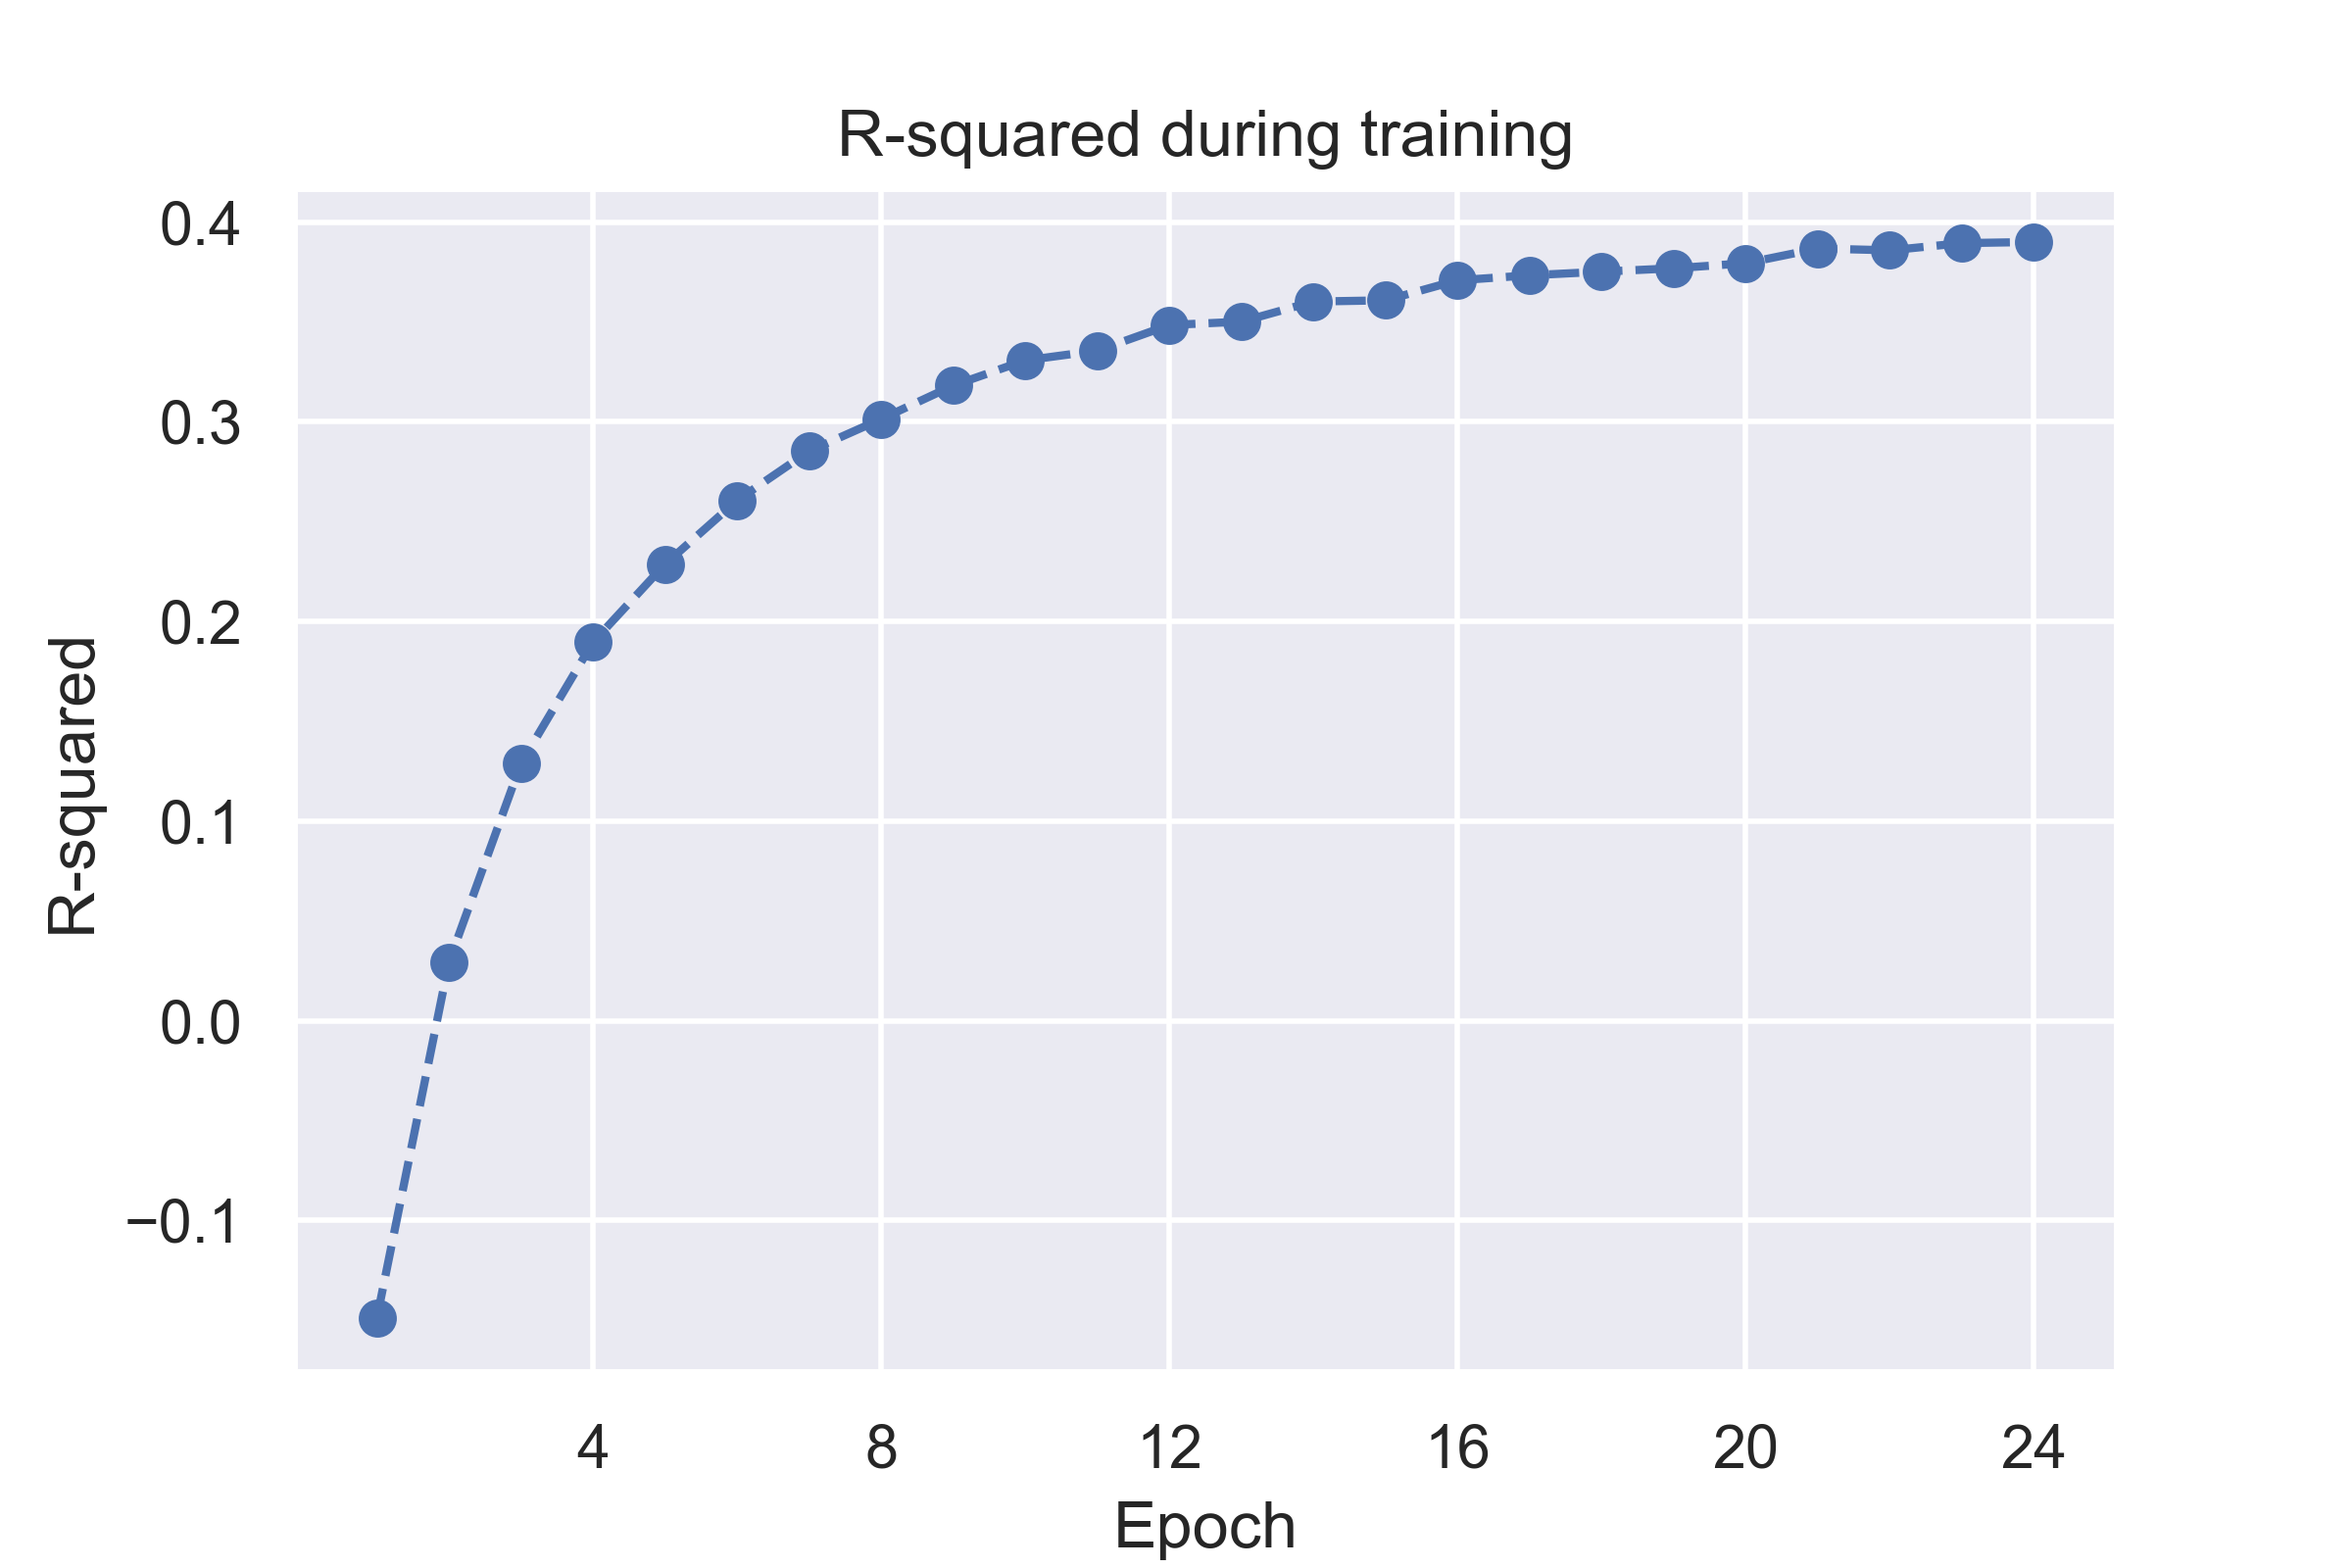
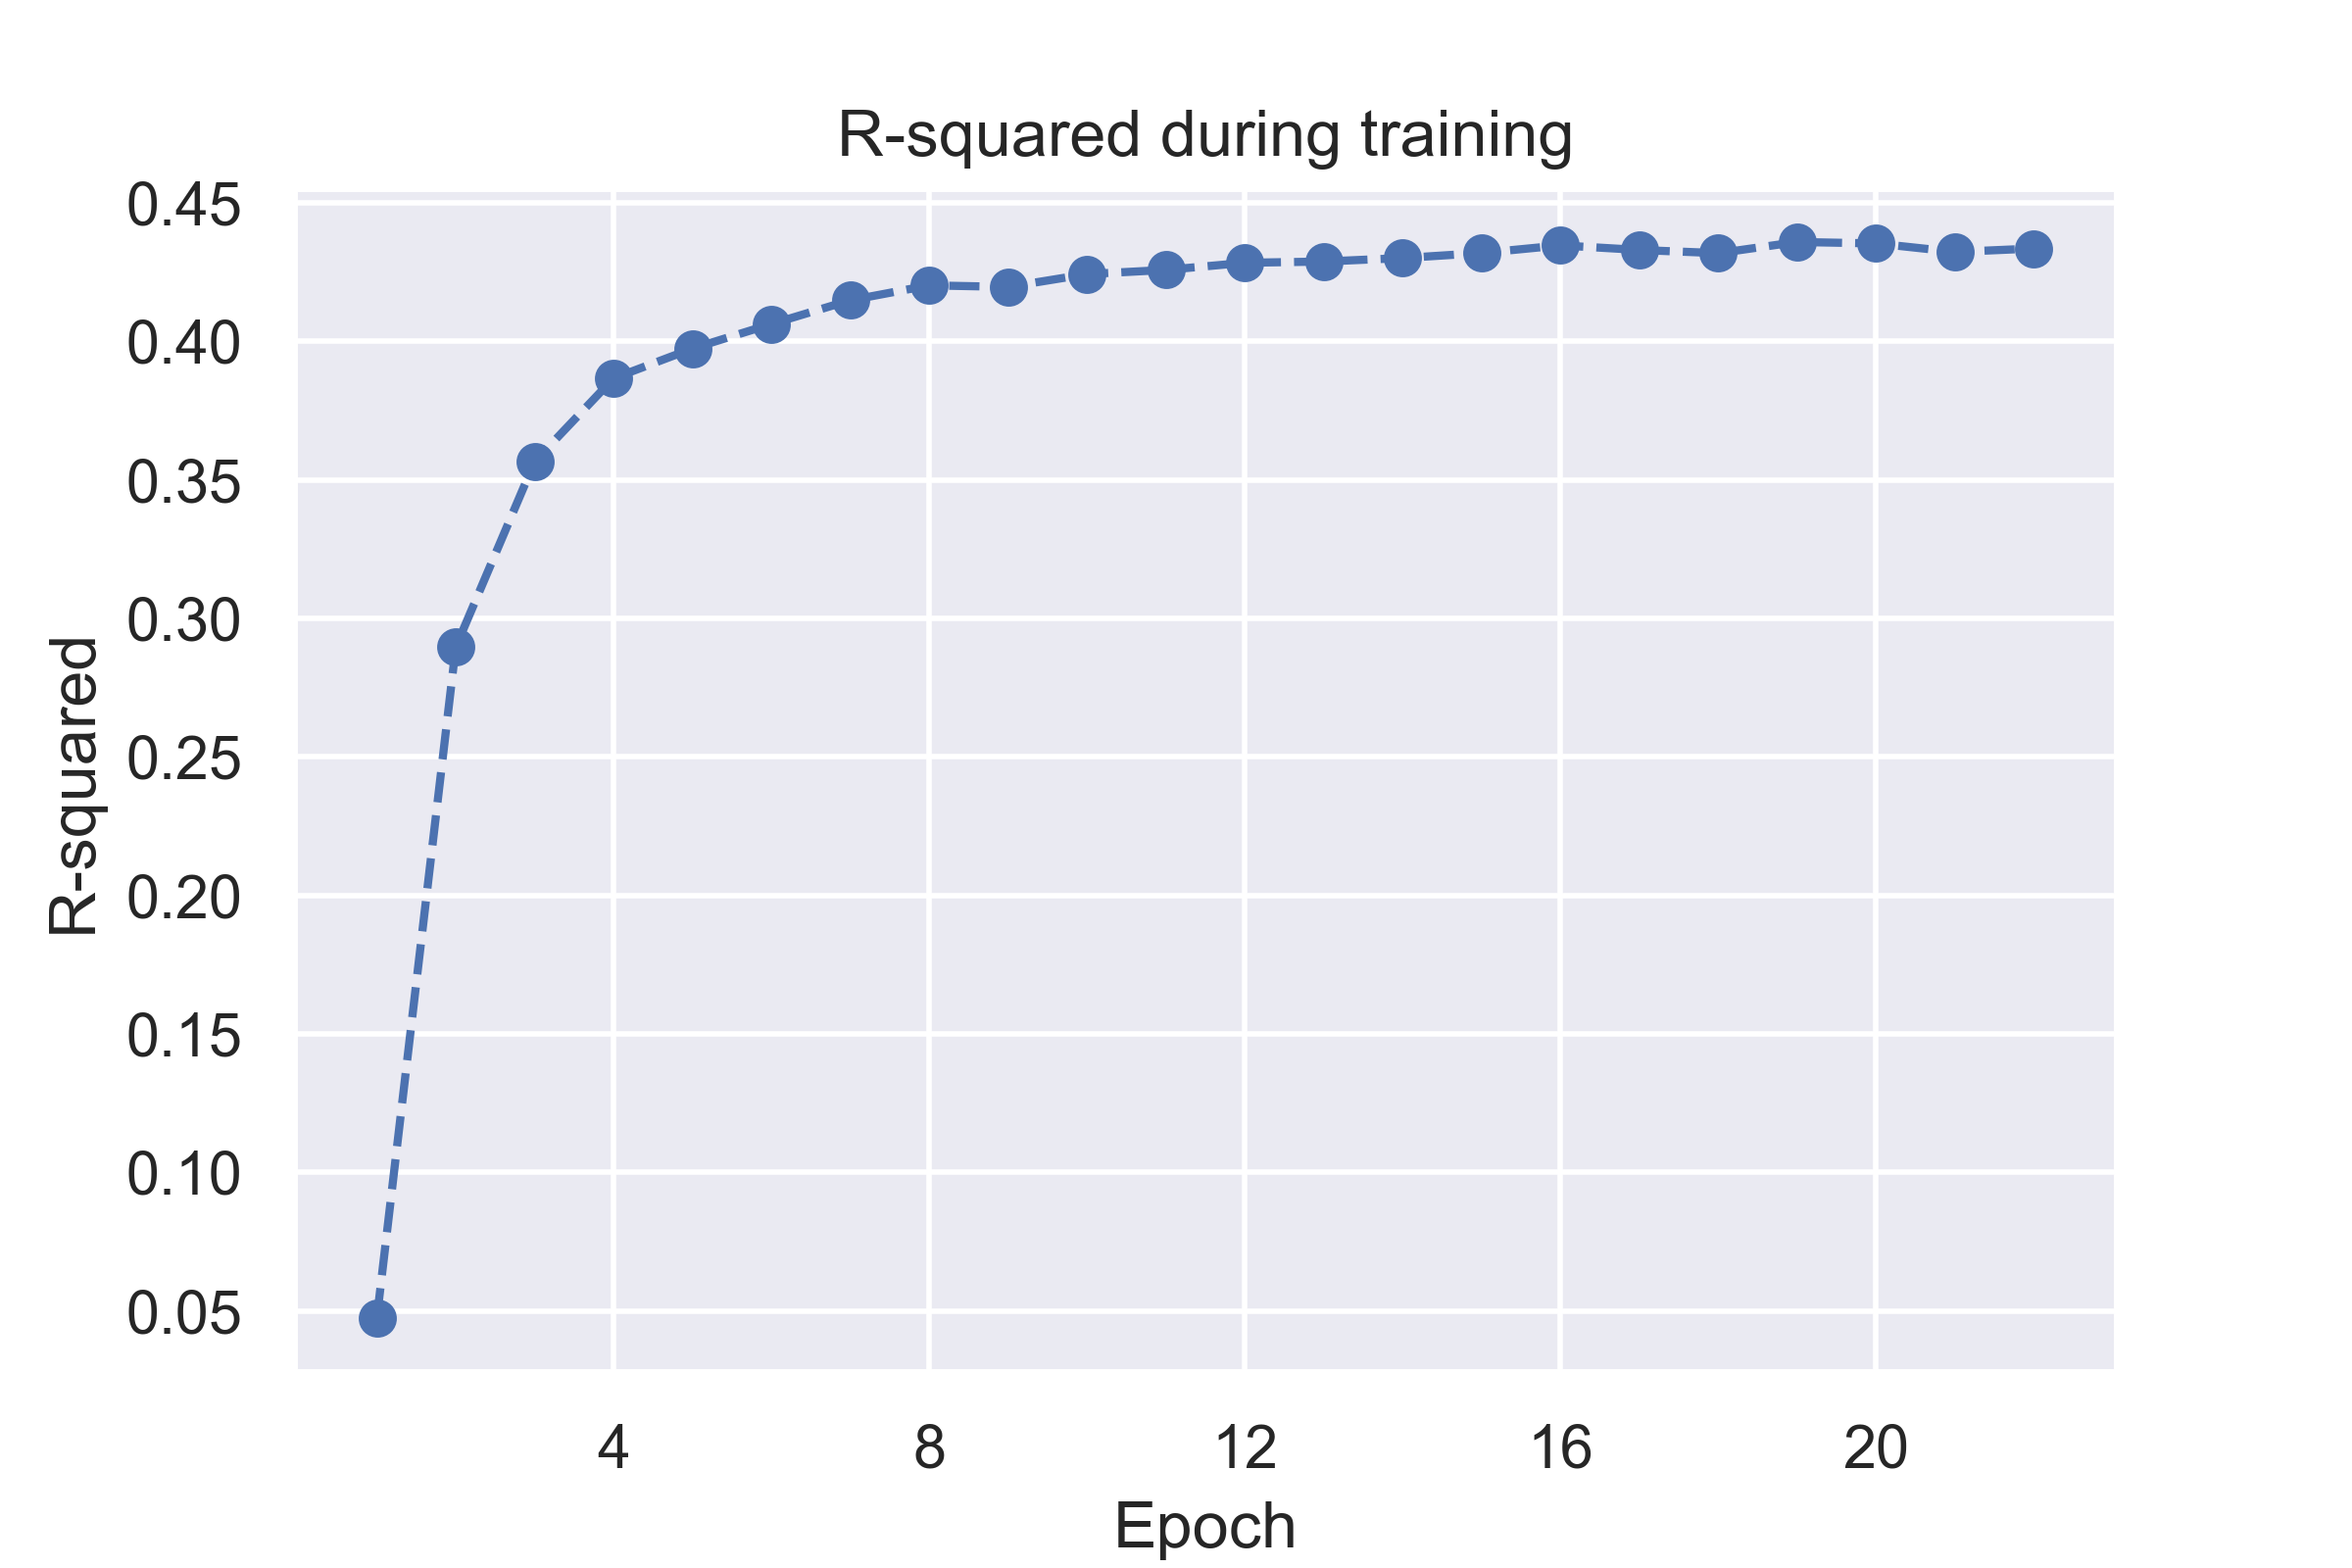
Arrang files

diff --git a/logs/2018-10-26_13_16_55_log0.html b/logs/2018-10-26_13_16_55_log0.html
@@ -1,0 +1,1 @@
+<HEAD><meta http-equiv='refresh' content='100' ></HEAD><BODY><pre>

diff --git a/replication.py b/replication.py
@@ -271,15 +271,8 @@ if __name__ == "__main__":
     data_scaler = MinMaxScaler(feature_range=(0, 28))
     X = data_scaler.fit_transform(X)
     
-    test_knn(logger, X, y)
     sleep(1)
-    test_xgboost(logger, X, y)
-    sleep(1)
-    test_svm(logger, X, y)
-    sleep(1)
-    test_linear_regression(logger, X, y)
-    sleep(1)
-    test_linear_regression(logger, X, y)
+    test_neural_network(logger, X, y)
     
     logger.close()
     
